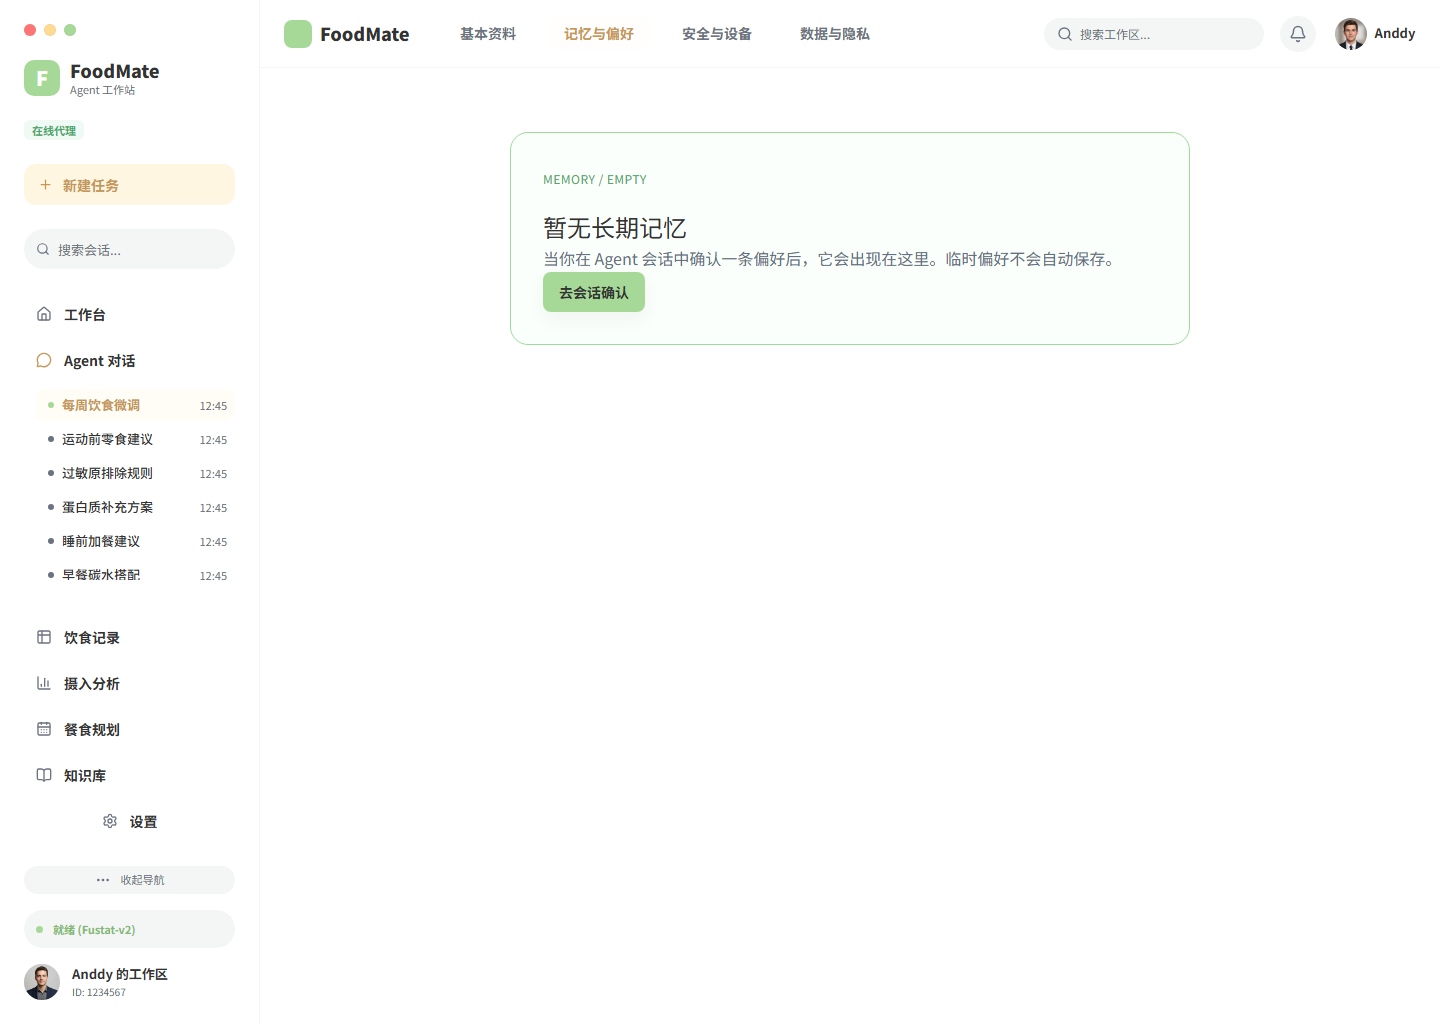
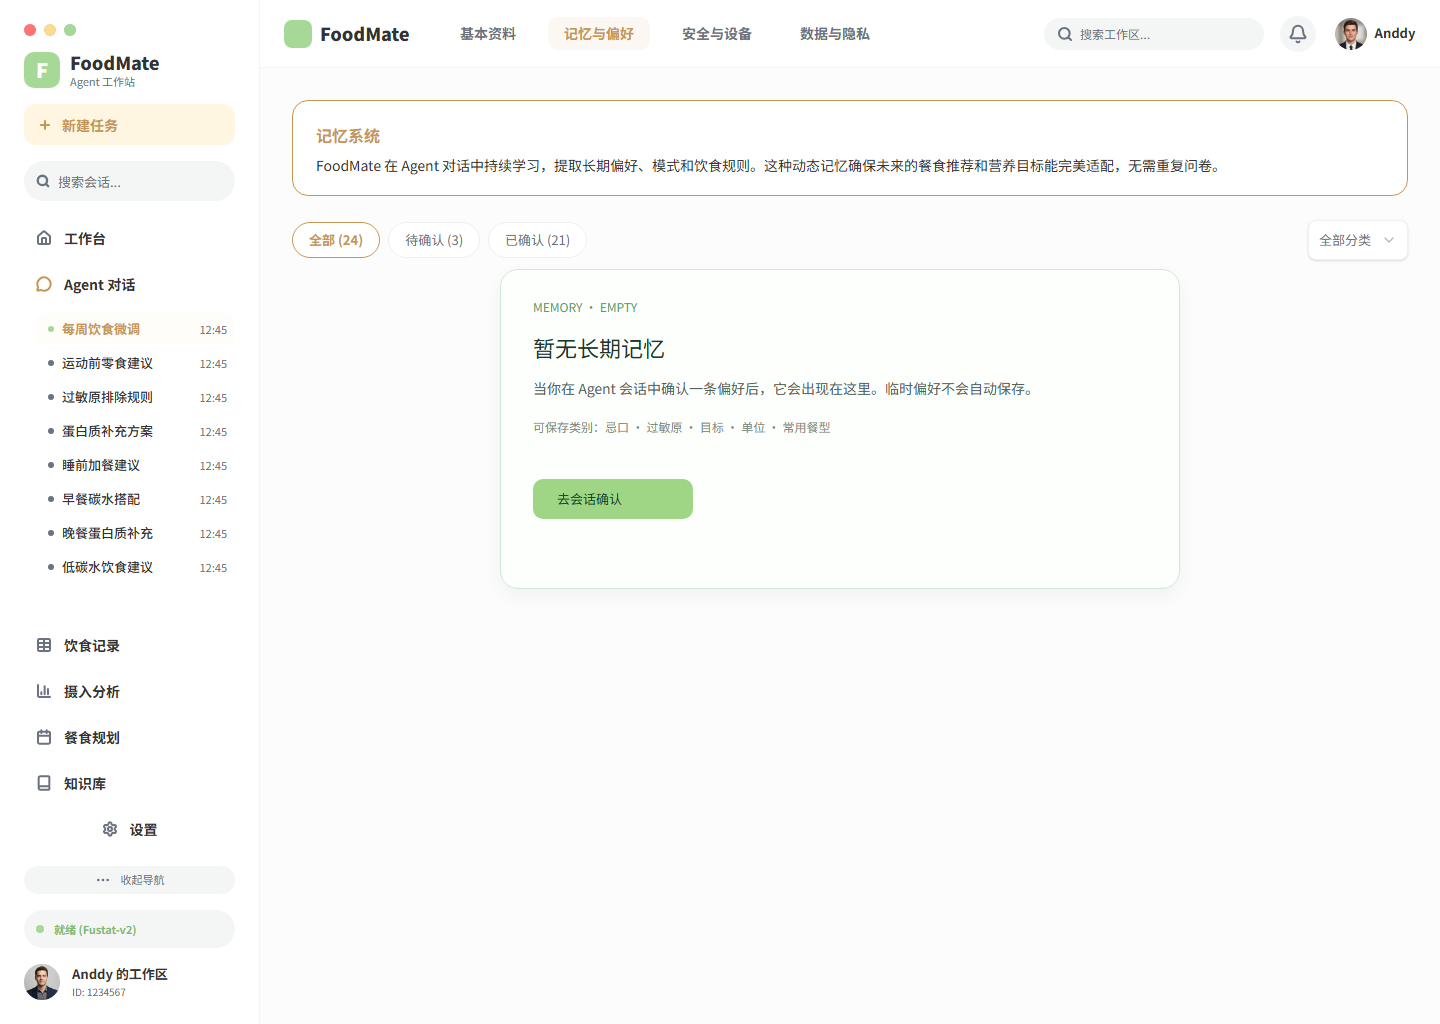
feat(profile): 收口 Figma Memories empty fixture

diff --git a/foodmate-ui/src/pages/ProfilePage/ProfilePage.tsx b/foodmate-ui/src/pages/ProfilePage/ProfilePage.tsx
@@ -278,21 +278,6 @@ function getProfileFixtureState(value: string | null): ProfileFixtureState | und
 }
 
 function ProfileFixtureOverlay({ state, onDismiss }: { state: ProfileFixtureState; onDismiss: () => void }) {
-  if (state === 'memories-empty') {
-    return (
-      <div className={styles.fixturePanel}>
-        <div className={styles.fixturePanelCard}>
-          <span>MEMORY / EMPTY</span>
-          <h2>暂无长期记忆</h2>
-          <p>当你在 Agent 会话中确认一条偏好后，它会出现在这里。临时偏好不会自动保存。</p>
-          <Button type="button" onClick={onDismiss}>
-            去会话确认
-          </Button>
-        </div>
-      </div>
-    );
-  }
-
   const isError = state.includes('failed');
   const isSuccess = state.includes('success');
   const title =
@@ -1125,9 +1110,15 @@ function SummaryTile({
   );
 }
 
-function MemoriesTab({ figmaFixture = false }: { figmaFixture?: boolean }) {
+function MemoriesTab({
+  figmaFixture = false,
+  emptyFixture = false,
+}: {
+  figmaFixture?: boolean;
+  emptyFixture?: boolean;
+}) {
   const navigate = useNavigate();
-  const [memories, setMemories] = useState(memorySeed);
+  const [memories, setMemories] = useState(emptyFixture ? [] : memorySeed);
   const [filter, setFilter] = useState<'all' | 'pending' | 'confirmed'>('all');
   const [category, setCategory] = useState('全部分类');
   const [deleting, setDeleting] = useState<Memory>();
@@ -1149,8 +1140,12 @@ function MemoriesTab({ figmaFixture = false }: { figmaFixture?: boolean }) {
 
   return (
     <div
-      className={cn(styles.memoryPage, figmaFixture && styles.figmaMemoriesPage)}
-      data-figma-layout={figmaFixture ? 'profile-memories' : undefined}
+      className={cn(
+        styles.memoryPage,
+        figmaFixture && styles.figmaMemoriesPage,
+        emptyFixture && styles.figmaMemoriesEmptyPage,
+      )}
+      data-figma-layout={figmaFixture ? (emptyFixture ? 'profile-memories-empty' : 'profile-memories') : undefined}
     >
       <Card className={styles.memoryIntro}>
         <h1>记忆系统</h1>
@@ -1225,14 +1220,16 @@ function MemoriesTab({ figmaFixture = false }: { figmaFixture?: boolean }) {
           </Button>
         </Card>
       )}
-      <Card className={styles.memoryGuidance}>
-        <h2>长期记忆管理</h2>
-        <p>仅在你明确确认后，才会保存为长期记忆；会话中的临时偏好不会自动写入。</p>
-        <p>每条记忆展示：类别 · 创建时间 · 更新时间 · 最近使用时间 · 来源会话</p>
-        <p>支持类别：忌口 · 过敏原 · 目标 · 单位 · 常用餐型；来源会话可追溯且可撤回。</p>
-        <p className={styles.guidanceAction}>操作：编辑 · 删除并二次确认 · 查看来源会话 · 取消保存</p>
-        <p>无记忆时显示空态：去会话中确认一条偏好，或清除全部记忆。</p>
-      </Card>
+      {!emptyFixture ? (
+        <Card className={styles.memoryGuidance}>
+          <h2>长期记忆管理</h2>
+          <p>仅在你明确确认后，才会保存为长期记忆；会话中的临时偏好不会自动写入。</p>
+          <p>每条记忆展示：类别 · 创建时间 · 更新时间 · 最近使用时间 · 来源会话</p>
+          <p>支持类别：忌口 · 过敏原 · 目标 · 单位 · 常用餐型；来源会话可追溯且可撤回。</p>
+          <p className={styles.guidanceAction}>操作：编辑 · 删除并二次确认 · 查看来源会话 · 取消保存</p>
+          <p>无记忆时显示空态：去会话中确认一条偏好，或清除全部记忆。</p>
+        </Card>
+      ) : null}
       <Dialog open={Boolean(deleting)} onOpenChange={(open) => !open && setDeleting(undefined)}>
         <DialogContent className={styles.dialogContent}>
           <DialogHeader>
@@ -2131,7 +2128,9 @@ export function ProfilePage() {
           : undefined
       }
       pageOverlay={
-        fixtureState ? <ProfileFixtureOverlay state={fixtureState} onDismiss={() => navigate('/profile')} /> : null
+        fixtureState && fixtureState !== 'memories-empty' ? (
+          <ProfileFixtureOverlay state={fixtureState} onDismiss={() => navigate('/profile')} />
+        ) : null
       }
     >
       <div className={cn(styles.page, 'fm-enter')}>
@@ -2147,7 +2146,7 @@ export function ProfilePage() {
           realMode ? (
             <RealMemoriesTab />
           ) : (
-            <MemoriesTab figmaFixture={isFigmaFixture} />
+            <MemoriesTab figmaFixture={isFigmaFixture} emptyFixture={fixtureState === 'memories-empty'} />
           )
         ) : null}
         {activeTab === 'security' ? <SecurityTab figmaFixture={securityFigmaFixture} /> : null}

diff --git a/foodmate-ui/src/pages/ProfilePage/ProfilePage.test.tsx b/foodmate-ui/src/pages/ProfilePage/ProfilePage.test.tsx
@@ -113,6 +113,17 @@ describe('ProfilePage', () => {
     ).toBeInTheDocument();
   });
 
+  it('renders the Figma memories empty page instead of an overlay', () => {
+    renderPage('/profile?state=memories-empty');
+
+    const memoryPage = screen.getByRole('heading', { name: '暂无长期记忆' }).closest('[data-figma-layout]');
+
+    expect(memoryPage).toHaveAttribute('data-figma-layout', 'profile-memories-empty');
+    expect(screen.getByRole('button', { name: '去会话确认' })).toBeInTheDocument();
+    expect(screen.queryByRole('heading', { name: '长期记忆管理' })).not.toBeInTheDocument();
+    expect(screen.queryByRole('alert')).not.toBeInTheDocument();
+  });
+
   it('limits the security Figma fixture to the two reference cards', () => {
     renderPage('/profile?state=security');
 

diff --git a/foodmate-ui/src/pages/ProfilePage/ProfilePage.module.css b/foodmate-ui/src/pages/ProfilePage/ProfilePage.module.css
@@ -683,6 +683,13 @@
   color: #333;
 }
 
+.figmaMemoriesEmptyPage .memoryEmpty {
+  margin-top: -15px;
+  margin-right: auto;
+  margin-left: 208px;
+  padding: 28px 32px;
+}
+
 .figmaMemoryIcon {
   width: 16px;
   height: 16px;

diff --git a/docxs/功能实现说明/前端已完成实现清单.md b/docxs/功能实现说明/前端已完成实现清单.md
@@ -4,7 +4,7 @@
 > 本文只记录真实代码、真实测试和实际浏览器检查结果，不把 Figma 目标稿、后端目标接口或未完成的全量迁移写成已完成。
 > “页面代码边界完成”表示该页面的代码、交互和本地验收已完成；不等同于真实后端接口、Figma 实际画板和整个 G 阶段全部完成。
 
-> 当前状态（2026-09-06）：页面代码和本地视觉/交互验收不等于完整生产完成。后端已实现 `food_logs` 明细创建/查询/编辑/删除/恢复、today/7d/30d 分析、60 条营养食材 seed 和 60 条官方 foodPortions 换算规则的 matched/pending 分支、餐食计划完整资源生命周期和 `meal_plan.save_plan` 确认；`food_log_writer` 的 create/update/delete/restore 及 rejected/failed/superseded、revision 冲突和幂等重放已通过真实 PostgreSQL HTTP/RocketMQ 各 11/11 跨进程回归。M2-1 公共知识库、M2-2 deterministic Tool/SQL 和 M2-3 管理核心切片已有业务证据；真实云服务、性能和故障矩阵仍后置。当前前端全量 Vitest 为 40/40 个测试文件、257/257 个用例通过，typecheck、build、lint 和 format:check 通过；Workspace/Home、Agent Chat、Meal Planning 和 Knowledge 三种状态页已完成当前批次视觉收口，最新 Figma 证据仍保持 `DIFF_REVIEW`。不得把本清单的页面完成项改写为生产级完成。
+> 当前状态（2026-09-06）：页面代码和本地视觉/交互验收不等于完整生产完成。后端已实现 `food_logs` 明细创建/查询/编辑/删除/恢复、today/7d/30d 分析、60 条营养食材 seed 和 60 条官方 foodPortions 换算规则的 matched/pending 分支、餐食计划完整资源生命周期和 `meal_plan.save_plan` 确认；`food_log_writer` 的 create/update/delete/restore 及 rejected/failed/superseded、revision 冲突和幂等重放已通过真实 PostgreSQL HTTP/RocketMQ 各 11/11 跨进程回归。M2-1 公共知识库、M2-2 deterministic Tool/SQL 和 M2-3 管理核心切片已有业务证据；真实云服务、性能和故障矩阵仍后置。当前前端全量 Vitest 为 40/40 个测试文件、258/258 个用例通过，typecheck、build、lint 和 format:check 通过；Workspace/Home、Agent Chat、Meal Planning 和 Knowledge 三种状态页已完成当前批次视觉收口，最新 Figma 证据仍保持 `DIFF_REVIEW`。不得把本清单的页面完成项改写为生产级完成。
 
 ## 当前批次：Workspace/Home 与 Agent Chat Figma 资源收口（2026-09-06）
 
@@ -65,6 +65,22 @@
 - [x] `scripts/png-diff.mjs` 同尺寸结果为 `differentPixels=317942`、差异比例 `21.5618%`、`MAE=4.279536`、`RMSE=21.369497`、最大通道差异 `226`。
 - [x] 已完成人工视觉复核；页面结构、记忆卡、筛选区和长期记忆管理卡已确认，仍存在字体、头像、控件状态、图标和局部文字换行差异，因此继续保持 `DIFF_REVIEW`。
 - [x] 本大点完成后统一执行 `npm run test`（40/40 个测试文件、257/257 个用例）、`npm run typecheck`、`npm run lint`、`npm run format:check`、`npm run build`、`npm run qa:figma:validate` 和 `git diff --check`，均通过；证据校验为 `structuralPass=true`、`strictDprPass=true`、`mappedPass=0`、`diffReview=105`、`errors=[]`。本批次未重新验收全部 105 个画板。
+- [ ] iconfont 实体包、完整 CSS/Unicode 映射、来源和许可证仍缺失，资源登记继续保持 `BLOCKED`。
+
+## 当前批次：Profile Memories Empty Figma fixture 收口（2026-09-06）
+
+本批次只处理 Profile Memories Empty 画板 `1013:2`，不重新采集或重新判定其它画板。Figma 设计稿保持只读；真实模式的记忆查询、编辑、删除、确认和来源会话边界未改变。
+
+| 画板 | Figma 节点 | 前端入口 | Figma PNG | 浏览器 PNG | 视口 / DPR | 差异比例 | MAE | RMSE | 最大通道差异 | 结论 |
+|---|---|---|---|---|---|---:|---:|---:|---:|---|
+| Profile Memories Empty | `1013:2` | `/profile?state=memories-empty` | `figma-png/profile-memories-empty.png` | `recaptured/dpr1-profile-memories-empty-browser-2026-09-06.png` | `1440×1024 / 1` | 14.3330% | 2.524803 | 15.902038 | 226 | `DIFF_REVIEW` |
+
+- [x] `memories-empty` 已从 overlay fixture 调整为独立 Profile Memories 页面状态；空记忆数据下保留介绍卡、筛选栏和分类选择，并隐藏长期记忆管理卡。
+- [x] 空态卡按实时 Figma 节点几何收口到 `x=500、y=270、width=680、height=320`，卡内内容使用 Figma 的 `32px` 左内边距和 `28px` 顶内边距。
+- [x] 浏览器证据由 Chrome `152.0.7977.77` 在 `1440×1024`、DPR `1`、字体加载完成且无横向溢出条件下采集；`ProfilePage.test.tsx` 的空态页面回归通过。
+- [x] `scripts/png-diff.mjs` 同尺寸结果为 `differentPixels=211349`、差异比例 `14.3330%`、`MAE=2.524803`、`RMSE=15.902038`、最大通道差异 `226`。
+- [x] 已完成人工视觉复核；空态卡、介绍卡和筛选区的主要几何已对齐，壳层导航、头像、控件箭头、文字光栅化和局部颜色仍存在差异，因此继续保持 `DIFF_REVIEW`。
+- [ ] 本批次没有重新验收全部 105 个画板；全量聚合仍为 `105 DIFF_REVIEW / 0 PASS / 0 UNMAPPED / 0 SIZE_MISMATCH`。
 - [ ] iconfont 实体包、完整 CSS/Unicode 映射、来源和许可证仍缺失，资源登记继续保持 `BLOCKED`。
 
 ## 1. 文档信息

diff --git a/docxs/功能实现说明/Figma前端像素级验收报告.md b/docxs/功能实现说明/Figma前端像素级验收报告.md
@@ -9,7 +9,7 @@
 1. Figma 文件内部结构、组件系统、Prototype 和画板截图回读已完成。
 2. 前端代码与 Figma 画板的自动化像素差异已覆盖 105 个已建立映射的页面/状态，105 个结果均为 `DIFF_REVIEW`，不能标记为像素级通过。
 
-因此当前不能宣称“Figma 105 张画板已全部像素级通过”。已经完成的是可复核的 Figma 全量结构验收、105 个画板的路由/状态映射、差异证据收集，以及运行时几何、可见文字和 DPR 检查；当前 mapping 中 88 项已完成人工复核，17 项仍为 `PENDING`，并且已复核项仍存在可见差异，结果继续保留为 `DIFF_REVIEW`。
+因此当前不能宣称“Figma 105 张画板已全部像素级通过”。已经完成的是可复核的 Figma 全量结构验收、105 个画板的路由/状态映射、差异证据收集，以及运行时几何、可见文字和 DPR 检查；当前 mapping 中 89 项已完成人工复核，16 项仍为 `PENDING`，并且已复核项仍存在可见差异，结果继续保留为 `DIFF_REVIEW`。
 
 ## 1.1 2026-09-06 Workspace/Home 与 Agent Chat 资源收口
 
@@ -66,6 +66,22 @@
 - [x] `scripts/png-diff.mjs` 输出 `differentPixels=317942`、差异比例 `21.5618%`、`MAE=4.279536`、`RMSE=21.369497`、最大通道差异 `226`。
 - [x] 人工复核确认介绍卡、筛选区、记忆卡、长期记忆管理卡和 Profile Memories 专属图标结构已对齐；仍存在字体、头像、控件状态、图标和局部文字换行差异。
 - [ ] 本画板继续保持 `DIFF_REVIEW`，不能标记为像素级 `PASS`；本节不代表其余 104 个画板重新采集或完成全量人工复核。
+- [ ] iconfont 实体包、完整 CSS/Unicode 映射、来源和许可证仍未提供，资源登记继续保持 `BLOCKED`。
+
+## 1.5 2026-09-06 Profile Memories Empty 增量验收
+
+本节只处理 Profile Memories Empty 画板 `1013:2`，不重新采集或人工验收其它画板。Figma 文件保持只读；真实模式的记忆操作和服务边界未改变。
+
+| 画板 | Figma 节点 | 前端入口 | Figma PNG | 浏览器 PNG | 视口 / DPR | 差异比例 | MAE | RMSE | 最大通道差异 | 结论 |
+|---|---|---|---|---|---|---:|---:|---:|---:|---|
+| Profile Memories Empty | `1013:2` | `/profile?state=memories-empty` | `figma-png/profile-memories-empty.png` | `recaptured/dpr1-profile-memories-empty-browser-2026-09-06.png` | `1440×1024 / 1` | 14.3330% | 2.524803 | 15.902038 | 226 | `DIFF_REVIEW` |
+
+- [x] `memories-empty` 已由 overlay fixture 调整为独立的 Profile Memories 页面状态，空记忆数据下保留介绍卡、筛选栏和分类选择，并隐藏长期记忆管理卡。
+- [x] 空态卡按实时 Figma 节点几何收口到 `x=500、y=270、width=680、height=320`，卡内内容使用 `32px` 左内边距和 `28px` 顶内边距。
+- [x] 浏览器截图使用 Chrome `152.0.7977.77`、`1440×1024`、DPR `1`、字体 `loaded` 且页面无横向溢出；Profile 空态回归测试通过。
+- [x] `scripts/png-diff.mjs` 输出 `differentPixels=211349`、差异比例 `14.3330%`、`MAE=2.524803`、`RMSE=15.902038`、最大通道差异 `226`。
+- [x] 已完成人工视觉复核；空态卡、介绍卡和筛选区主要几何已对齐，壳层导航、头像、控件箭头、文字光栅化和局部颜色仍存在差异，因此继续保持 `DIFF_REVIEW`。
+- [ ] 本批次不代表其余画板重新采集或完成全量人工复核；105 项汇总仍为 `105 DIFF_REVIEW / 0 PASS / 0 UNMAPPED / 0 SIZE_MISMATCH`。
 - [ ] iconfont 实体包、完整 CSS/Unicode 映射、来源和许可证仍未提供，资源登记继续保持 `BLOCKED`。
 
 ## 2. Figma 文件内部验收
